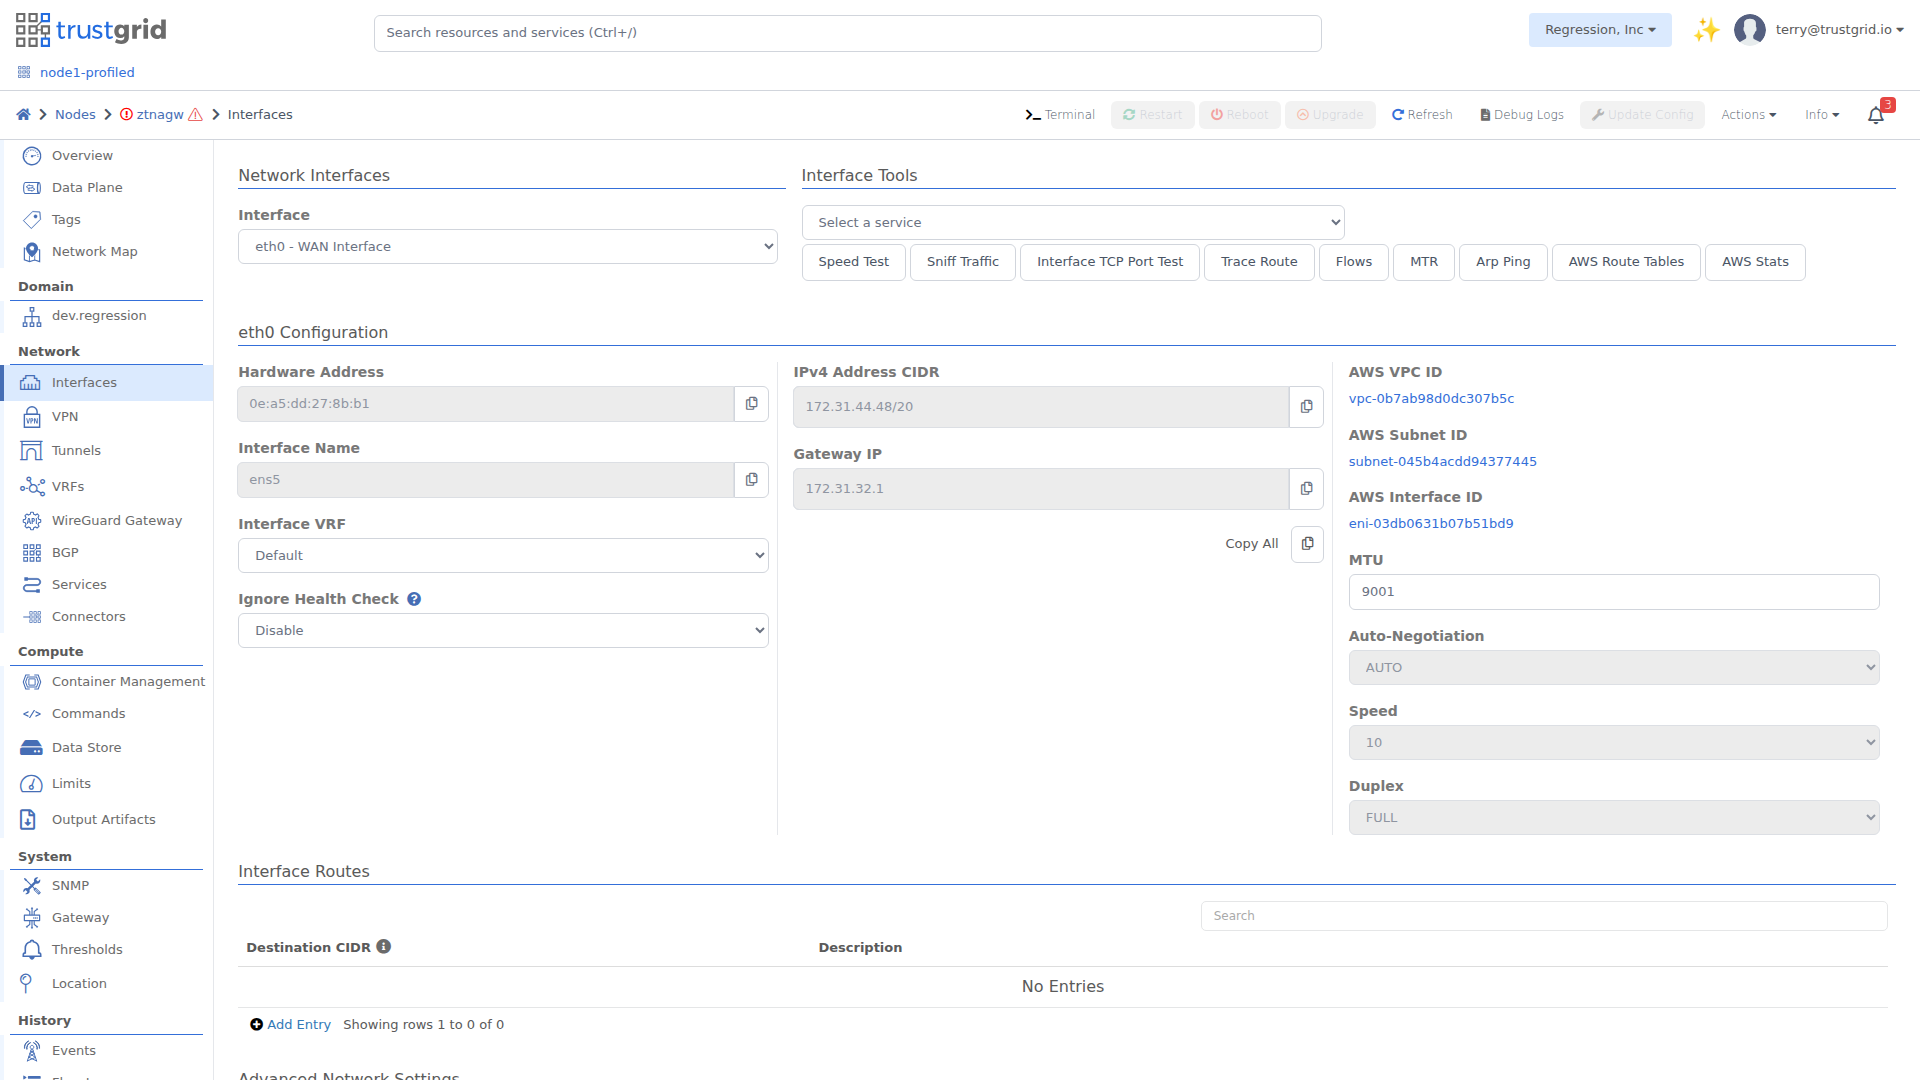
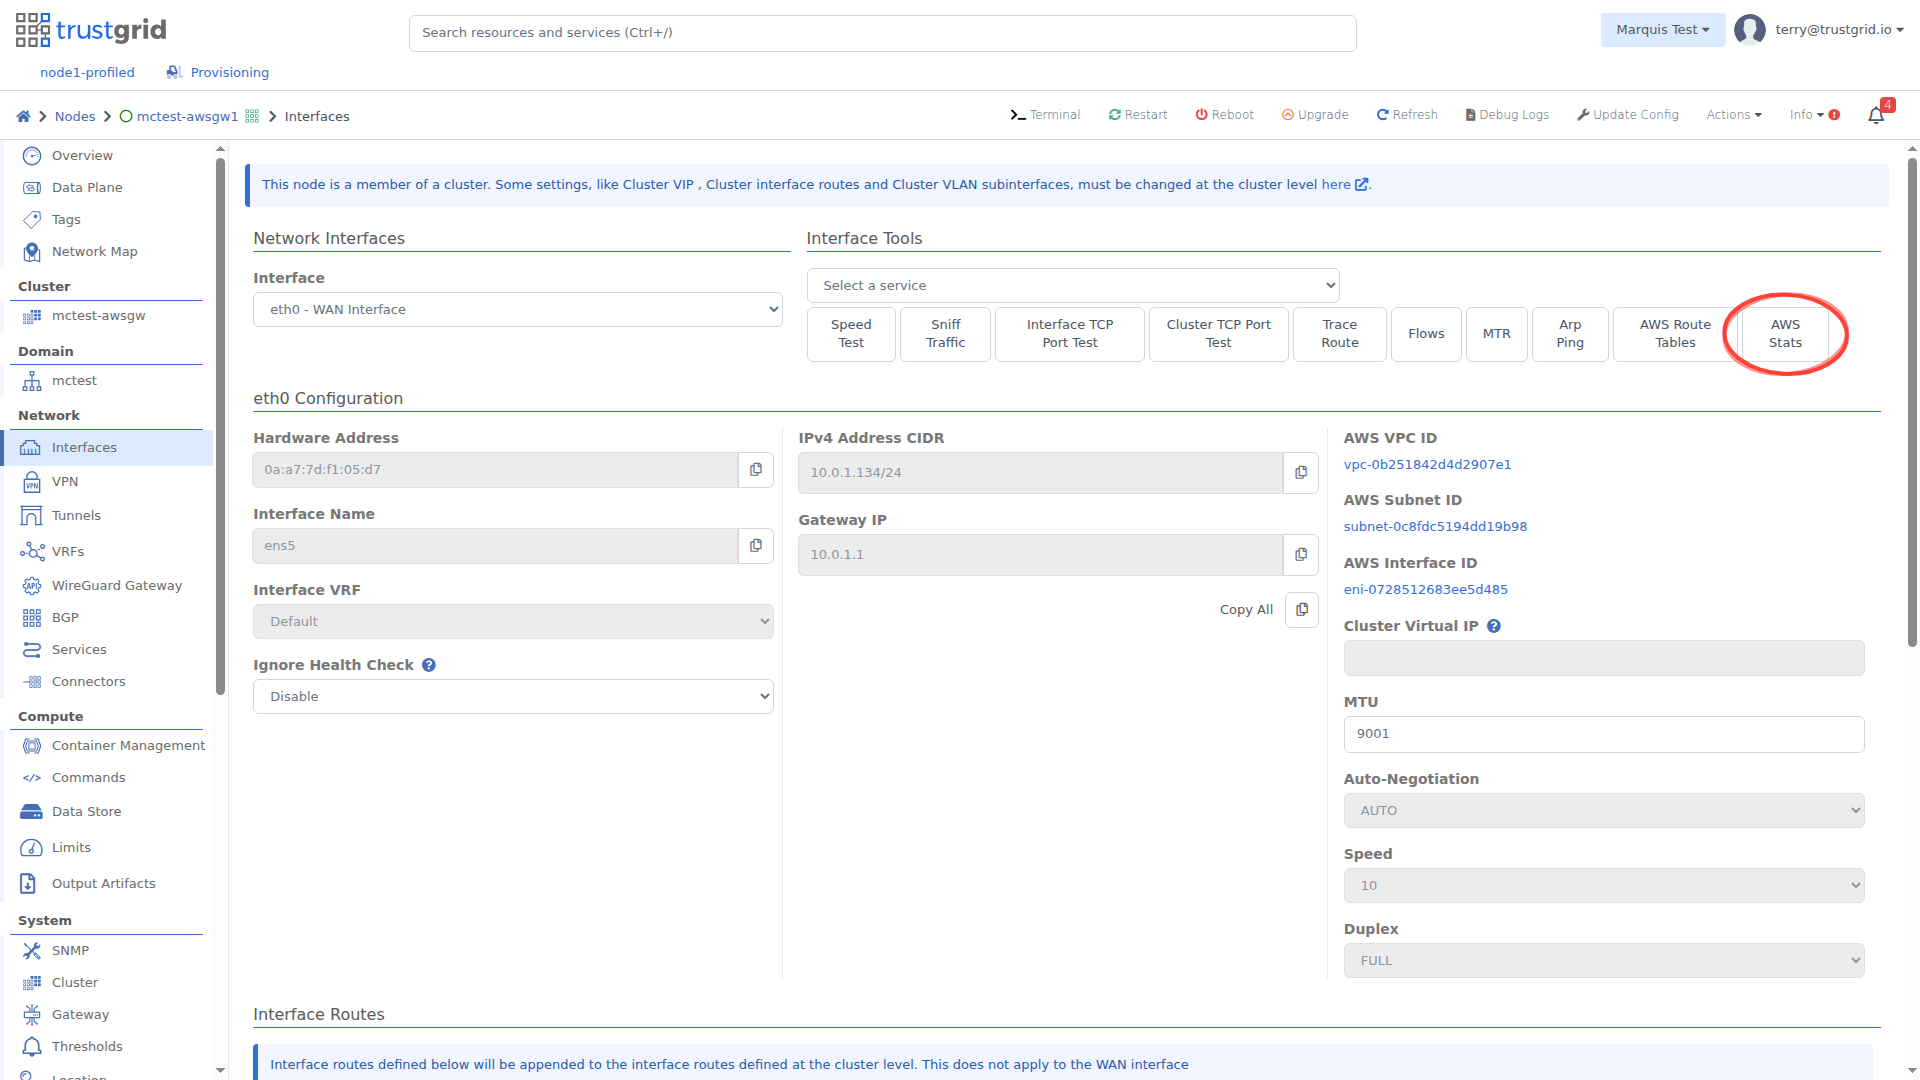
Update AWS stats docs and screenshots

diff --git a/content/en/tutorials/interface-tools/aws-interface-stats/index.md b/content/en/tutorials/interface-tools/aws-interface-stats/index.md
@@ -8,7 +8,7 @@ categories: ["interface-tools"]
 ---
 
 {{% pageinfo %}}
-The AWS Stats tool displays Elastic Network Adapter (ENA) statistics for AWS-hosted nodes. These statistics help identify when AWS is throttling network traffic due to instance limits being exceeded. This feature was introduced in node version 5.28 and requires the `service:network-status` permission.
+The AWS Stats tool displays Elastic Network Adapter (ENA) statistics for AWS-hosted nodes. These statistics help identify when AWS is throttling network traffic due to instance limits being exceeded. Access requires the `service:network-status` permission.
 {{% /pageinfo %}}
 
 ## Overview
@@ -16,7 +16,7 @@ The AWS Stats tool displays Elastic Network Adapter (ENA) statistics for AWS-hos
 When running Trustgrid nodes on AWS EC2 instances, network performance is subject to instance-type-specific limits for bandwidth, packets per second, and connection tracking. The AWS Interface ENA Stats tool allows you to view counters that indicate when these limits have been exceeded, helping diagnose network performance issues.
 
 {{<alert title="Note" color="info">}}
-The **AWS Stats** button is only visible on nodes running on AWS EC2 instances with ENA-enabled network interfaces.
+The **AWS Stats** button is only visible on nodes running on AWS EC2 instances with ENA-enabled network interfaces. If you do not see this button on an AWS node, upgrade the device to a version that includes AWS Interface ENA Stats support.
 {{</alert>}}
 
 ## Accessing AWS Stats
